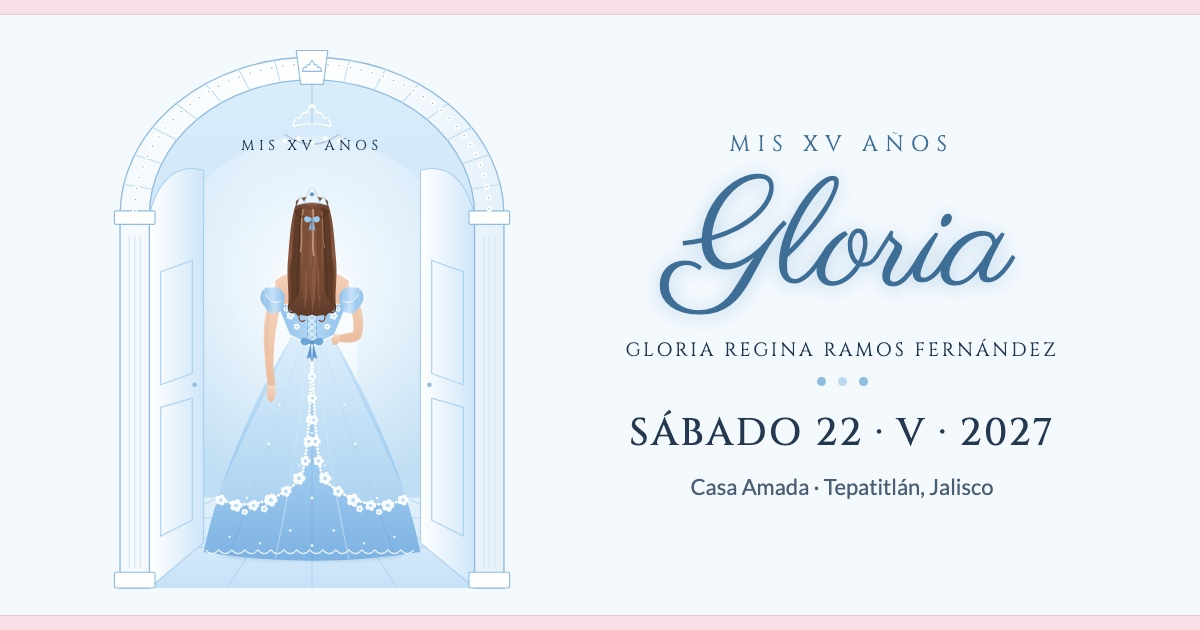
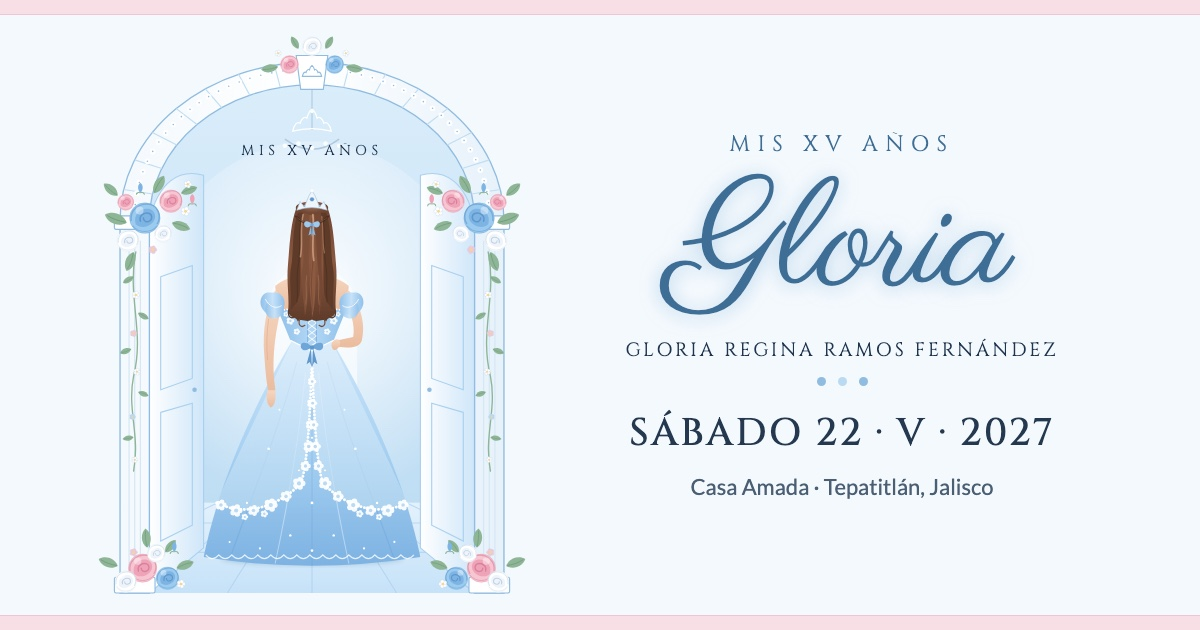
Más flores en el diseño
- Rosas, hojas, botones y flores en guirnaldas del arco, enredaderas en las pilastras y arreglos en la base
- Rosas en separadores, tarjetas, cuenta regresiva y esquinas del sobre
- Imagen para compartir actualizada

diff --git a/src/App.tsx b/src/App.tsx
@@ -92,8 +92,127 @@ const Tiara = ({ className = '', color = 'currentColor' }: { className?: string;
 );
 
 /* Separador de filigrana simétrico */
+
+/* ---------- Flores: rosas, hojas, flores pequeñas y botones ---------- */
+
+const TONOS_ROSA = {
+  azul: { base: '#9CCBF0', medio: '#7DB4E4', oscuro: '#5E97CC' },
+  rosa: { base: '#F7C6D3', medio: '#EFA3B8', oscuro: '#D9809A' },
+  blanco: { base: '#FFFFFF', medio: '#EEF4FA', oscuro: '#BFD3E6' },
+} as const;
+type Tono = keyof typeof TONOS_ROSA;
+
+type Pieza =
+  | ['rosa', number, number, number, Tono]
+  | ['hoja', number, number, number, number]
+  | ['flor', number, number, number, string]
+  | ['boton', number, number, number, Tono]
+  | ['tallo', string];
+
+function Rosa({ x, y, s, tono }: { x: number; y: number; s: number; tono: Tono; key?: React.Key }) {
+  const t = TONOS_ROSA[tono];
+  return (
+    <g transform={`translate(${x} ${y}) scale(${s})`}>
+      <circle r="10" fill={t.base} stroke={t.oscuro} strokeOpacity="0.35" strokeWidth="0.6" />
+      <path d="M-9 2 C-10 -6 -3 -10 3 -9 C9 -8 11 -1 8 4" stroke={t.oscuro} strokeWidth="0.9" fill="none" opacity="0.6" />
+      <path d="M-6 4 C-8 -3 -2 -7 3 -6 C7 -5 8 0 5 3 C2 6 -3 7 -6 4 Z" fill={t.medio} />
+      <path d="M-3 2 C-4 -2 0 -4 3 -3 C5 -2 5 1 3 2 C1 3 -1 2 -1 0" stroke={t.oscuro} strokeWidth="1" fill="none" strokeLinecap="round" />
+      <path d="M-8 5 C-4 10 4 10 8 5" stroke={t.oscuro} strokeWidth="0.7" fill="none" opacity="0.5" />
+      <circle cx="-3.5" cy="-5" r="2.6" fill="#FFFFFF" opacity="0.4" />
+    </g>
+  );
+}
+
+function Ramo({ piezas, transform }: { piezas: Pieza[]; transform?: string }) {
+  return (
+    <g transform={transform} aria-hidden="true">
+      {piezas.map((p, i) => {
+        switch (p[0]) {
+          case 'tallo':
+            return <path key={i} d={p[1]} stroke="#8DB596" strokeWidth="1.2" fill="none" strokeLinecap="round" />;
+          case 'hoja': {
+            const [, x, y, s, rot] = p;
+            return (
+              <g key={i} transform={`translate(${x} ${y}) rotate(${rot}) scale(${s})`}>
+                <path d="M0 0 C5 -6 14 -5 18 0 C14 5 5 6 0 0 Z" fill="#8DB596" />
+                <path d="M1 0 C6 -1 12 -1 16 0" stroke="#6E9A79" strokeWidth="0.6" fill="none" />
+              </g>
+            );
+          }
+          case 'rosa':
+            return <Rosa key={i} x={p[1]} y={p[2]} s={p[3]} tono={p[4]} />;
+          case 'flor': {
+            const [, x, y, r, color] = p;
+            return (
+              <g key={i}>
+                {[0, 72, 144, 216, 288].map((a) => (
+                  <circle key={a} cx={x + Math.cos((a * Math.PI) / 180) * r} cy={y + Math.sin((a * Math.PI) / 180) * r} r={r * 0.8} fill={color} stroke="#BFD3E6" strokeWidth="0.3" />
+                ))}
+                <circle cx={x} cy={y} r={r * 0.55} fill="#F5D98B" />
+              </g>
+            );
+          }
+          case 'boton': {
+            const [, x, y, s, tono] = p;
+            return (
+              <g key={i} transform={`translate(${x} ${y}) scale(${s})`}>
+                <path d="M0 4 C-3 1 -3 -4 0 -6 C3 -4 3 1 0 4 Z" fill={TONOS_ROSA[tono].medio} />
+                <path d="M0 4 C-2 3 -4 4 -4 6 M0 4 C2 3 4 4 4 6" stroke="#8DB596" strokeWidth="1" fill="none" />
+              </g>
+            );
+          }
+        }
+      })}
+    </g>
+  );
+}
+
+// Guirnalda de la esquina superior izquierda del arco, con enredadera por la pilastra (lienzo 340×480)
+const RAMO_ESQUINA: Pieza[] = [
+  ['tallo', 'M14 178 C6 218 22 248 12 288 C6 318 18 340 12 372'],
+  ['hoja', 12, 200, 0.6, 150], ['hoja', 16, 232, 0.6, 30], ['hoja', 10, 264, 0.6, 160], ['hoja', 16, 302, 0.55, 20], ['hoja', 12, 342, 0.55, 170],
+  ['flor', 14, 216, 1.9, '#FFFFFF'], ['flor', 12, 250, 1.7, '#F7C6D3'], ['flor', 15, 284, 1.7, '#FFFFFF'], ['flor', 11, 324, 1.5, '#B9DAF2'], ['flor', 13, 362, 1.5, '#FFFFFF'],
+  ['hoja', 6, 152, 1.15, 200], ['hoja', 30, 126, 1, -60], ['hoja', 46, 152, 0.95, 20], ['hoja', 12, 178, 1, 110], ['hoja', 54, 126, 0.85, -20], ['hoja', -2, 128, 0.9, -140],
+  ['rosa', 22, 148, 1.35, 'azul'], ['rosa', 45, 133, 1, 'rosa'], ['rosa', 7, 168, 0.95, 'blanco'], ['rosa', 38, 162, 0.75, 'blanco'], ['rosa', 5, 134, 0.72, 'rosa'],
+  ['flor', 58, 142, 2.3, '#FFFFFF'], ['flor', 29, 176, 2, '#F7C6D3'], ['flor', 60, 118, 1.9, '#FFFFFF'],
+  ['boton', 64, 132, 0.9, 'rosa'], ['boton', 18, 122, 0.9, 'azul'],
+];
+
+// Arreglo floral en la base de la puerta
+const RAMO_BASE: Pieza[] = [
+  ['hoja', -2, 456, 1, -160], ['hoja', 50, 458, 0.9, -20], ['hoja', 24, 440, 0.95, -95], ['hoja', 40, 444, 0.8, -50],
+  ['rosa', 20, 458, 1.25, 'rosa'], ['rosa', 42, 467, 1, 'azul'], ['rosa', 5, 470, 0.95, 'blanco'], ['rosa', 32, 445, 0.8, 'blanco'],
+  ['flor', 54, 472, 2.1, '#FFFFFF'], ['flor', 12, 444, 1.9, '#F7C6D3'], ['boton', 48, 440, 0.9, 'azul'],
+];
+
+// Ramo sobre la clave del arco
+const RAMO_CLAVE: Pieza[] = [
+  ['hoja', 140, 14, 0.85, 170], ['hoja', 200, 14, 0.85, 10], ['hoja', 158, -2, 0.7, -120], ['hoja', 182, -2, 0.7, -60],
+  ['rosa', 150, 12, 0.8, 'rosa'], ['rosa', 190, 12, 0.8, 'azul'], ['rosa', 170, -4, 0.85, 'blanco'],
+  ['flor', 140, 2, 1.6, '#FFFFFF'], ['flor', 200, 2, 1.6, '#FFFFFF'],
+];
+
+// Ramito para la punta de las tarjetas (lienzo 200×76)
+const RAMO_TARJETA: Pieza[] = [
+  ['hoja', 84, 8, 0.55, 170], ['hoja', 116, 8, 0.55, 10],
+  ['rosa', 91, 8, 0.42, 'azul'], ['rosa', 109, 8, 0.42, 'blanco'], ['rosa', 100, 4, 0.56, 'rosa'],
+];
+
+// Ramito para el centro de los separadores (lienzo 220×24)
+const RAMO_SEPARADOR: Pieza[] = [
+  ['hoja', 96, 13, 0.5, 175], ['hoja', 124, 13, 0.5, 5],
+  ['rosa', 102, 14, 0.42, 'azul'], ['rosa', 118, 14, 0.42, 'azul'], ['rosa', 110, 11, 0.6, 'rosa'],
+];
+
+// Esquina del sobre (lienzo 80×80)
+const RAMO_SOBRE: Pieza[] = [
+  ['hoja', 6, 30, 1, 100], ['hoja', 28, 6, 1, -10], ['hoja', 30, 26, 0.8, 40],
+  ['rosa', 14, 14, 1.3, 'rosa'], ['rosa', 34, 16, 0.9, 'blanco'], ['rosa', 14, 36, 0.9, 'azul'],
+  ['flor', 44, 6, 2, '#FFFFFF'], ['flor', 6, 46, 1.9, '#FFFFFF'], ['boton', 40, 30, 0.9, 'rosa'],
+];
+
 const Filigrana = ({ className = '' }: { className?: string }) => (
-  <svg className={`mx-auto h-6 w-[220px] max-w-full text-perla ${className}`} viewBox="0 0 220 24" fill="none" stroke="currentColor" strokeWidth="1.1" strokeLinecap="round" aria-hidden="true">
+  <svg className={`mx-auto h-6 w-[220px] max-w-full overflow-visible text-perla ${className}`} viewBox="0 0 220 24" fill="none" stroke="currentColor" strokeWidth="1.1" strokeLinecap="round" aria-hidden="true">
     <g id="fil-izq">
       <path d="M100 12 C92 12 88 18 82 16 C77 14 79 8 84 9 C88 10 87 14 84 14" />
       <path d="M82 16 C68 22 52 4 36 12 C30 15 22 12 14 12" />
@@ -101,8 +220,9 @@ const Filigrana = ({ className = '' }: { className?: string }) => (
       <circle cx="10" cy="12" r="1.6" fill="currentColor" stroke="none" />
     </g>
     <use href="#fil-izq" transform="matrix(-1 0 0 1 220 0)" />
-    <path d="M110 5 L116 12 L110 19 L104 12 Z" />
-    <circle cx="110" cy="12" r="1.6" fill="currentColor" stroke="none" />
+    <g stroke="none">
+      <Ramo piezas={RAMO_SEPARADOR} transform="translate(110 12) scale(1.7) translate(-110 -12)" />
+    </g>
   </svg>
 );
 
@@ -338,6 +458,14 @@ function Sobre({ revelar, abrir }: { revelar: () => void; abrir: () => void }) {
         <div className="xv-sobre-parte absolute inset-0 rounded-md bg-arco [clip-path:polygon(0_0,50%_54%,100%_0,100%_100%,0_100%)]" />
         <div className="xv-sobre-parte absolute inset-0 rounded-md bg-perla/35 [clip-path:polygon(0_100%,50%_54%,100%_100%)]" />
 
+        {/* Flores en las esquinas del sobre */}
+        <svg className="xv-sobre-parte pointer-events-none absolute -left-8 -top-8 z-[15] h-32 w-32 overflow-visible" viewBox="0 0 80 80" aria-hidden="true">
+          <Ramo piezas={RAMO_SOBRE} />
+        </svg>
+        <svg className="xv-sobre-parte pointer-events-none absolute -bottom-8 -right-8 z-[15] h-32 w-32 rotate-180 overflow-visible" viewBox="0 0 80 80" aria-hidden="true">
+          <Ramo piezas={RAMO_SOBRE} />
+        </svg>
+
         {/* Solapa */}
         <div className="xv-solapa absolute inset-x-0 top-0 z-10 h-[62%] origin-top rounded-t-md bg-[#A9CFEC] [backface-visibility:hidden] [clip-path:polygon(0_0,100%_0,50%_100%)]" />
 
@@ -529,6 +657,13 @@ function Portada() {
               <path d="M6 42 C8 30 14 24 19 28 C21 20 27 15 31 19 C33 10 37 5 40 3 C43 5 47 10 49 19 C53 15 59 20 61 28 C66 24 72 30 74 42 Z" />
             </g>
           </g>
+
+          {/* Guirnaldas, enredaderas y arreglos de flores */}
+          <Ramo piezas={RAMO_ESQUINA} />
+          <Ramo piezas={RAMO_ESQUINA} transform="matrix(-1 0 0 1 340 0)" />
+          <Ramo piezas={RAMO_BASE} />
+          <Ramo piezas={RAMO_BASE} transform="matrix(-1 0 0 1 340 0)" />
+          <Ramo piezas={RAMO_CLAVE} />
         </svg>
       </div>
       <div className="flex flex-col items-center gap-2 text-center">
@@ -559,7 +694,13 @@ function Fecha() {
         <p className="font-cinzel text-[13px] tracking-[0.3em] text-acento">SÁBADO</p>
         <p className="font-cinzel text-[clamp(32px,10vw,40px)] font-medium tracking-[0.06em]">22 · V · 2027</p>
       </div>
-      <div className="grid w-full grid-cols-4 rounded-lg border border-borde bg-white py-4 outline outline-1 outline-offset-4 outline-borde">
+      <div className="relative grid w-full grid-cols-4 rounded-lg border border-borde bg-white py-4 outline outline-1 outline-offset-4 outline-borde">
+        <svg className="pointer-events-none absolute -left-6 -top-6 h-16 w-16 overflow-visible" viewBox="0 0 80 80" aria-hidden="true">
+          <Ramo piezas={RAMO_SOBRE} />
+        </svg>
+        <svg className="pointer-events-none absolute -bottom-6 -right-6 h-16 w-16 rotate-180 overflow-visible" viewBox="0 0 80 80" aria-hidden="true">
+          <Ramo piezas={RAMO_SOBRE} />
+        </svg>
         {items.map(([valor, etiqueta], i) => (
           <div key={etiqueta} className={`flex flex-col gap-0.5 ${i > 0 ? 'border-l border-borde' : ''}`}>
             <span className="font-cinzel text-2xl font-medium tabular-nums">{String(valor).padStart(2, '0')}</span>
@@ -578,11 +719,11 @@ function TarjetaArco({ icono, titulo, hora, lugar, detalle, mapa }: {
     <div className="relative flex min-w-0 flex-col drop-shadow-[0_10px_14px_rgba(62,110,149,0.14)]">
       {/* Remate de ventana de palacio */}
       <div className="relative">
-        <svg className="block w-full" viewBox="0 0 200 76" aria-hidden="true">
+        <svg className="block w-full overflow-visible" viewBox="0 0 200 76" aria-hidden="true">
           <path d="M0 76 V50 C0 36 40 33 62 24 C82 16 95 10 100 1 C105 10 118 16 138 24 C160 33 200 36 200 50 V76 Z" fill="#FFFFFF" />
           <path d="M0.75 76 V50 C0.75 36 40 33 62 24 C82 16 95 10 100 1 C105 10 118 16 138 24 C160 33 199.25 36 199.25 50 V76" fill="none" stroke="#D3E6F5" strokeWidth="1.5" vectorEffect="non-scaling-stroke" />
           <path d="M9 76 V53 C9 42 44 40 66 31 C84 24 96 18 100 11 C104 18 116 24 134 31 C156 40 191 42 191 53 V76" fill="none" stroke="#B9DAF2" strokeOpacity="0.7" strokeWidth="1" vectorEffect="non-scaling-stroke" />
-          <circle cx="100" cy="2" r="2.5" fill="#8FBCE0" />
+          <Ramo piezas={RAMO_TARJETA} transform="translate(100 6) scale(1.8) translate(-100 -6)" />
         </svg>
         <span className="absolute inset-x-0 bottom-1 flex justify-center text-acento">{icono}</span>
       </div>
